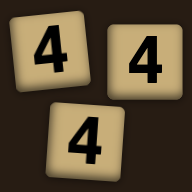
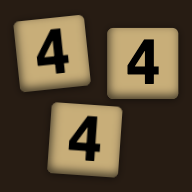
Inset the 444dle tiles clear of the iOS corner mask
iOS masks the icon with a squircle, which at 45 degrees cuts in to about
1.23 of the half-width against a square corner's 1.41. The top-left tile
came within 1.45% of the icon's width of that edge — uncut, but close
enough that a slightly different mask would have taken its corner.

Every other measure in the art is a fraction of the tile, so dropping the
tile from 0.39 to 0.37 scales the whole mark and leaves the composition
alone. Clearance is 4.7% at 512 and 4.9% at 192; reduce's single tile was
never near it at 11.4%.

diff --git a/scripts/icons/main.ts b/scripts/icons/main.ts
@@ -22,7 +22,7 @@ const ART: Record<string, Art> = {
     rows: [[{ char: "r", lie: -5 }]],
   },
   "444dle": {
-    tile: 0.39,
+    tile: 0.37,
     gap: 0.2,
     rows: [
       [
